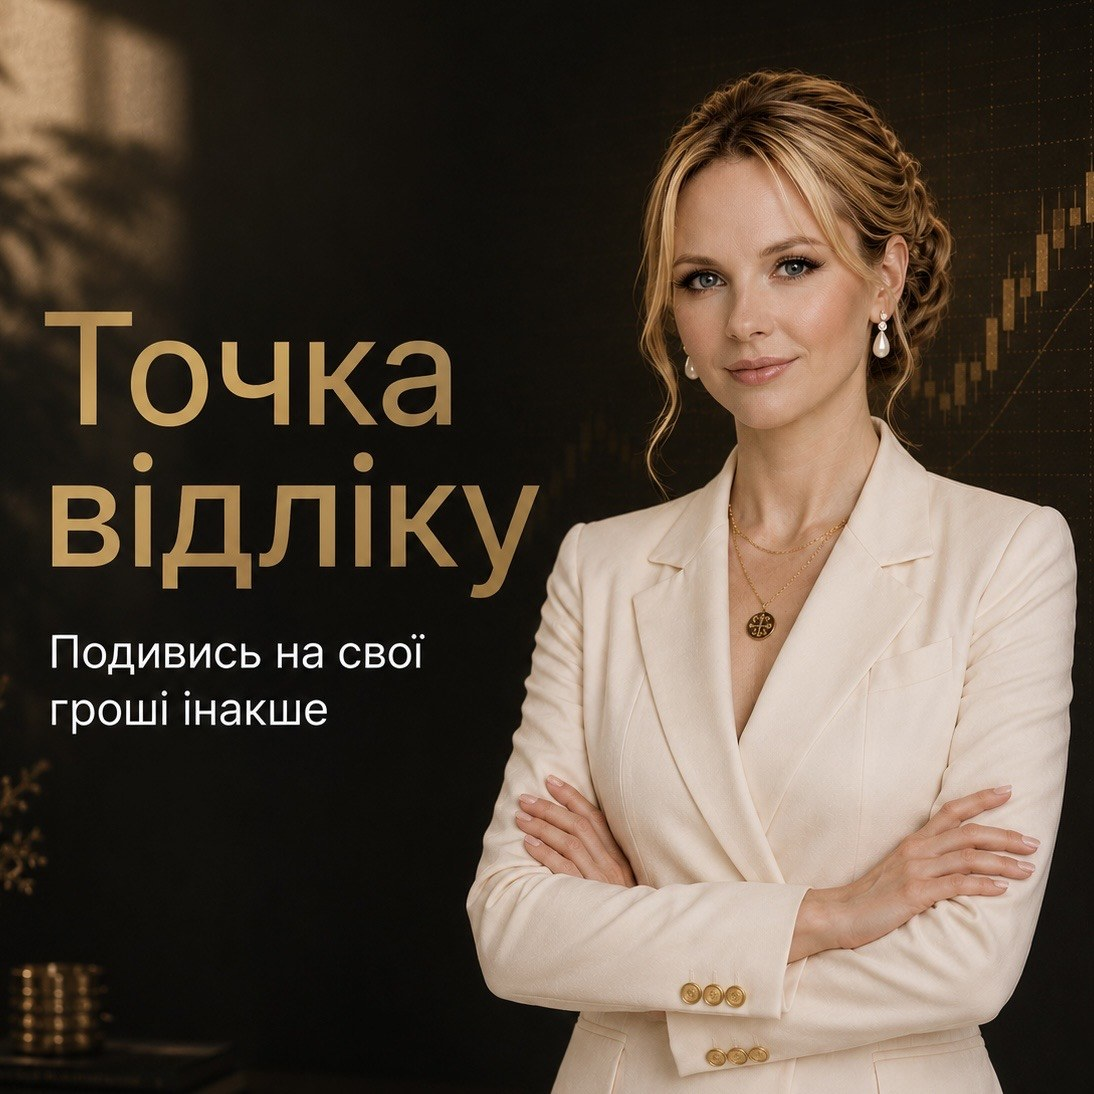
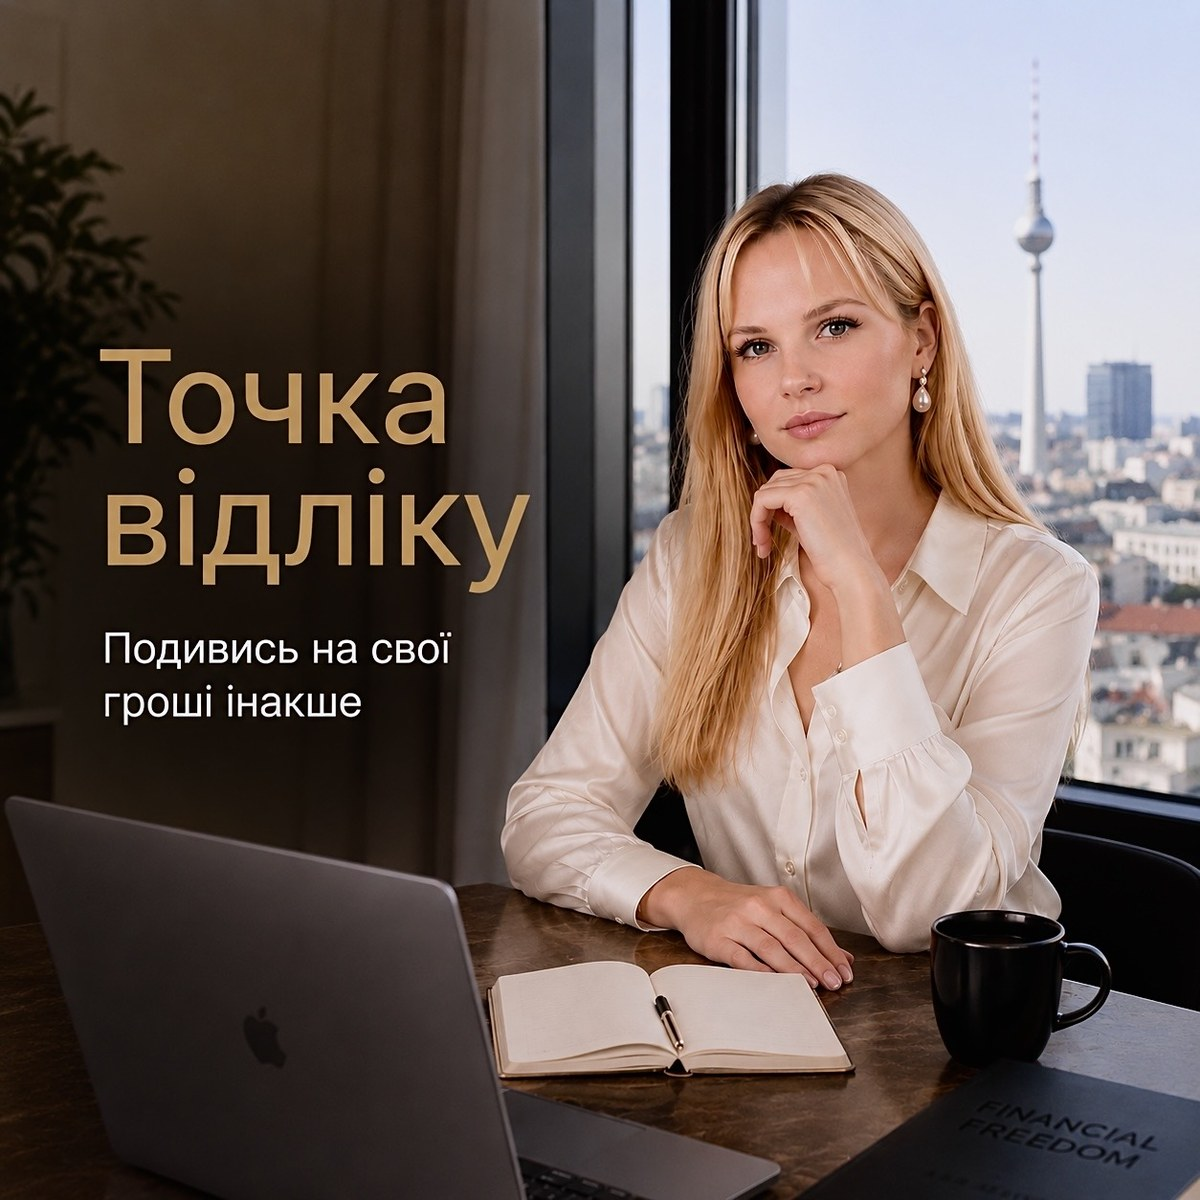
Hero mobile: face lower (bg 72%), button drops below arms (pb-2). OG: new Berlin square image, cache-bust v3

diff --git a/index.html b/index.html
@@ -20,7 +20,7 @@
     <meta property="og:url" content="https://mini.olhafair.com/" />
     <meta property="og:title" content="Точка відліку — Міні-курс від Ольги Грицай" />
     <meta property="og:description" content="Для тих, хто втомився жити без відчуття опори. 4 короткі уроки без складної економіки та фінансової «мови експертів»." />
-    <meta property="og:image" content="https://mini.olhafair.com/og-image.jpg?v=2" />
+    <meta property="og:image" content="https://mini.olhafair.com/og-image.jpg?v=3" />
     <meta property="og:image:width" content="1094" />
     <meta property="og:image:height" content="1094" />
     <meta property="og:locale" content="uk_UA" />
@@ -30,7 +30,7 @@
     <meta name="twitter:site" content="@olhafair" />
     <meta name="twitter:title" content="Точка відліку — Міні-курс від Ольги Грицай" />
     <meta name="twitter:description" content="Для тих, хто втомився жити без відчуття опори. 4 короткі уроки без складної економіки та фінансової «мови експертів»." />
-    <meta name="twitter:image" content="https://mini.olhafair.com/og-image.jpg?v=2" />
+    <meta name="twitter:image" content="https://mini.olhafair.com/og-image.jpg?v=3" />
 
     <link rel="preconnect" href="https://fonts.googleapis.com">
     <link rel="preconnect" href="https://fonts.gstatic.com" crossorigin>

diff --git a/src/components/sections/HeroSection.tsx b/src/components/sections/HeroSection.tsx
@@ -13,7 +13,7 @@ export const HeroSection = () => {
     >
       {/* Background — mobile vertical; desktop landscape */}
       <div
-        className="absolute inset-0 bg-cover bg-[position:62%_55%] bg-no-repeat lg:hidden"
+        className="absolute inset-0 bg-cover bg-[position:62%_72%] bg-no-repeat lg:hidden"
         style={{ backgroundImage: `url(${heroBg})` }}
       />
       <div
@@ -107,7 +107,7 @@ export const HeroSection = () => {
             initial={{ opacity: 0, y: 16 }}
             animate={{ opacity: 1, y: 0 }}
             transition={{ duration: 0.8, delay: 0.35 }}
-            className="mt-auto space-y-3 pb-6 pt-2"
+            className="mt-auto space-y-3 pb-2 pt-2"
           >
             <Button
               size="lg" className="group w-full text-base py-7 text-[#111111] font-medium tracking-wide rounded-md bg-[#D4B06A] hover:bg-[#E1BE7A] shadow-[0_8px_24px_-8px_rgba(212,176,106,0.45)] transition-colors" onClick={() => startCheckout()}>Отримати доступ за 9€